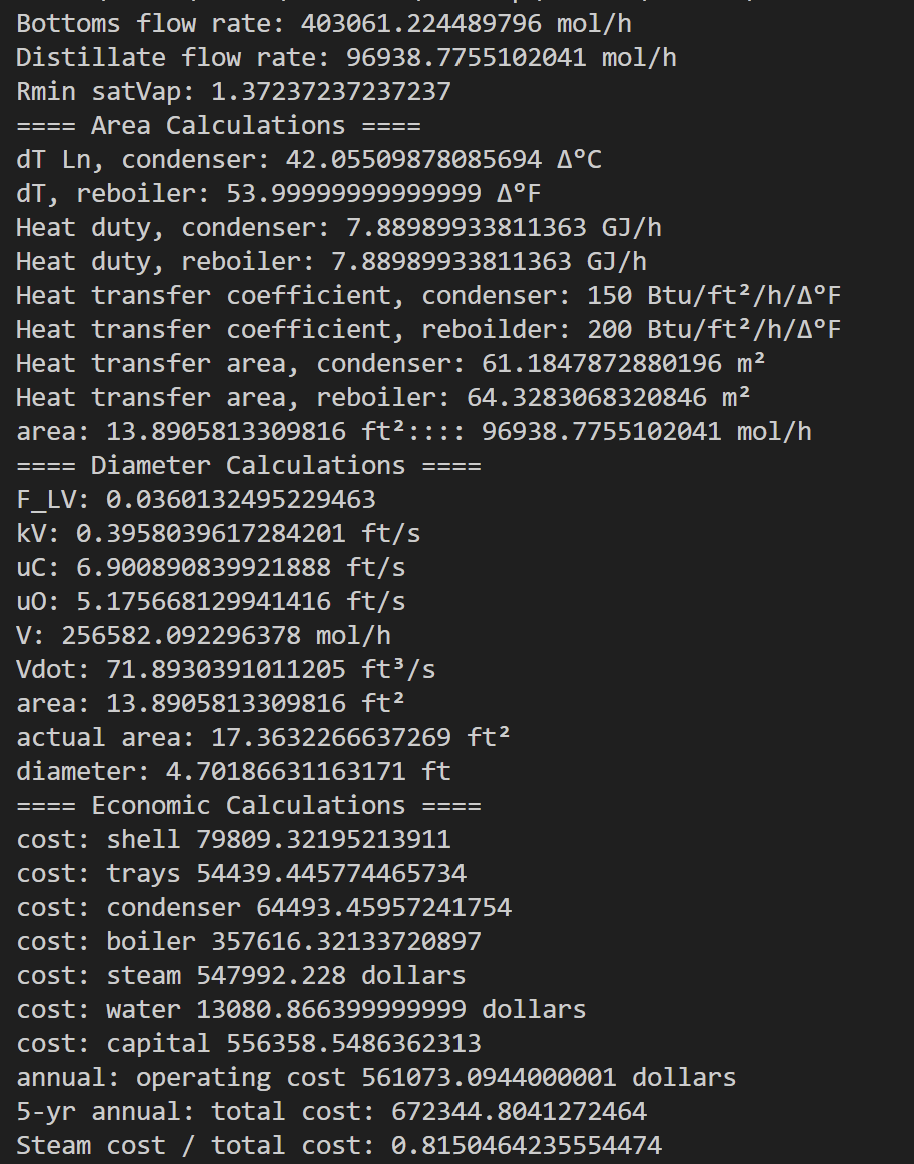
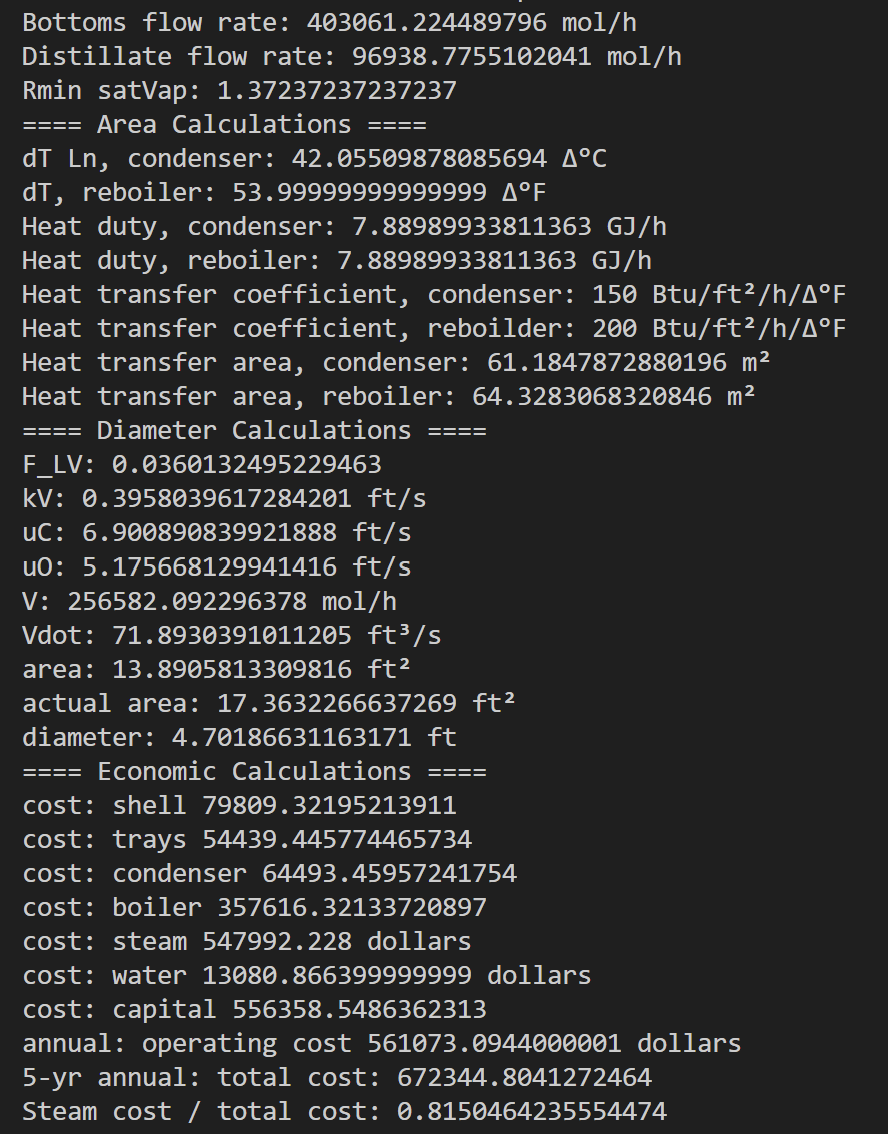
revis

Changed region(s): [[0.0, 0.0, 0.9426, 1.0]]

diff --git a/distillation_proj/base_case.py b/distillation_proj/base_case.py
@@ -97,7 +97,6 @@ class DP(CHE362):
     vDot = (v_ * mW / rhoV).to('ft**3/s')
 
     area = (vDot / uO).to('ft**2')
-    print(f"area: {area}:::: {self.d_}")
     actualArea = area / activeArea
     self.d = (4 * actualArea / pi)**.5
 

diff --git a/distillation_proj/readme.md b/distillation_proj/readme.md
@@ -10,7 +10,15 @@
 
 ![Base Case Statement](assets/base_case_statement.png)
 
-
 ### [Script](https://github.com/hunterviolette/CHE362/blob/master/distillation_proj/base_case.py) Result
 
-![Base Case Results](assets/base_results.png)
+- ![Base Case Results](assets/base_results.png)
+
+## Aspen Simulation and Optimum
+
+![Aspen Simulation Statement](assets/base_case_statement.png)
+
+- Generate input data by iterating over number of trays and feed tray in Aspen
+
+- ![Aspen Simulation Statement](assets/main_input.png)
+
